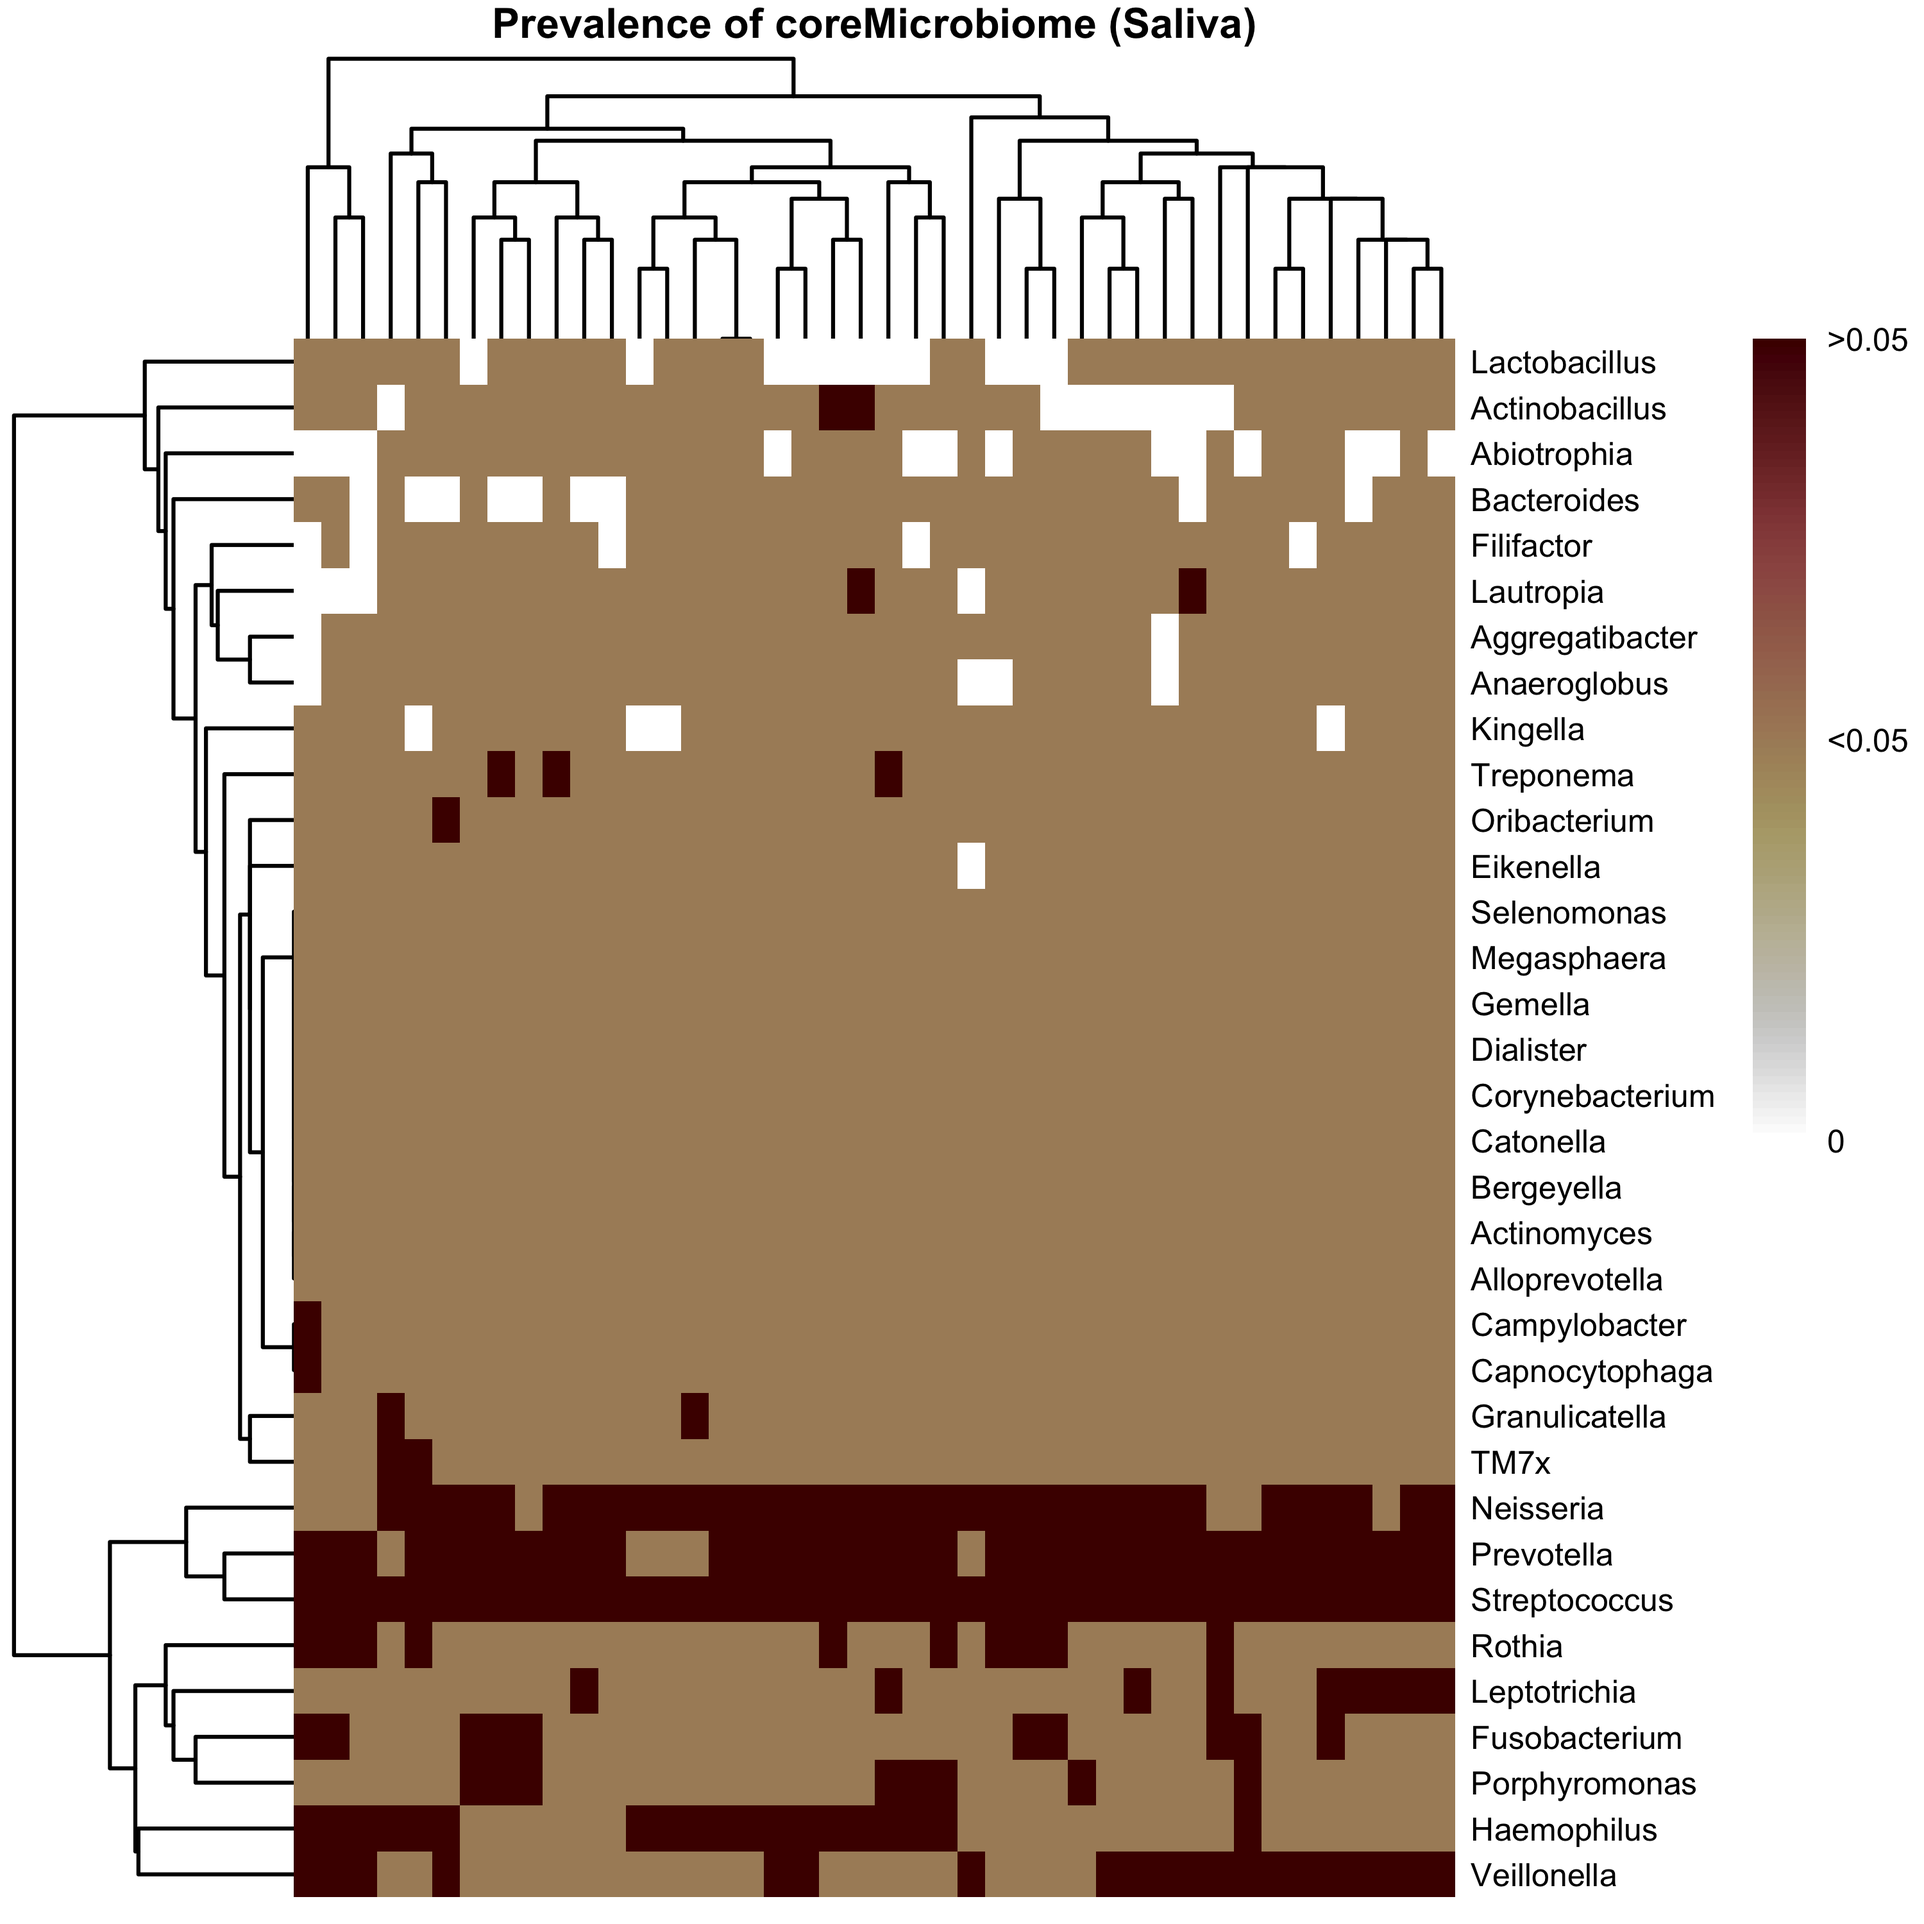
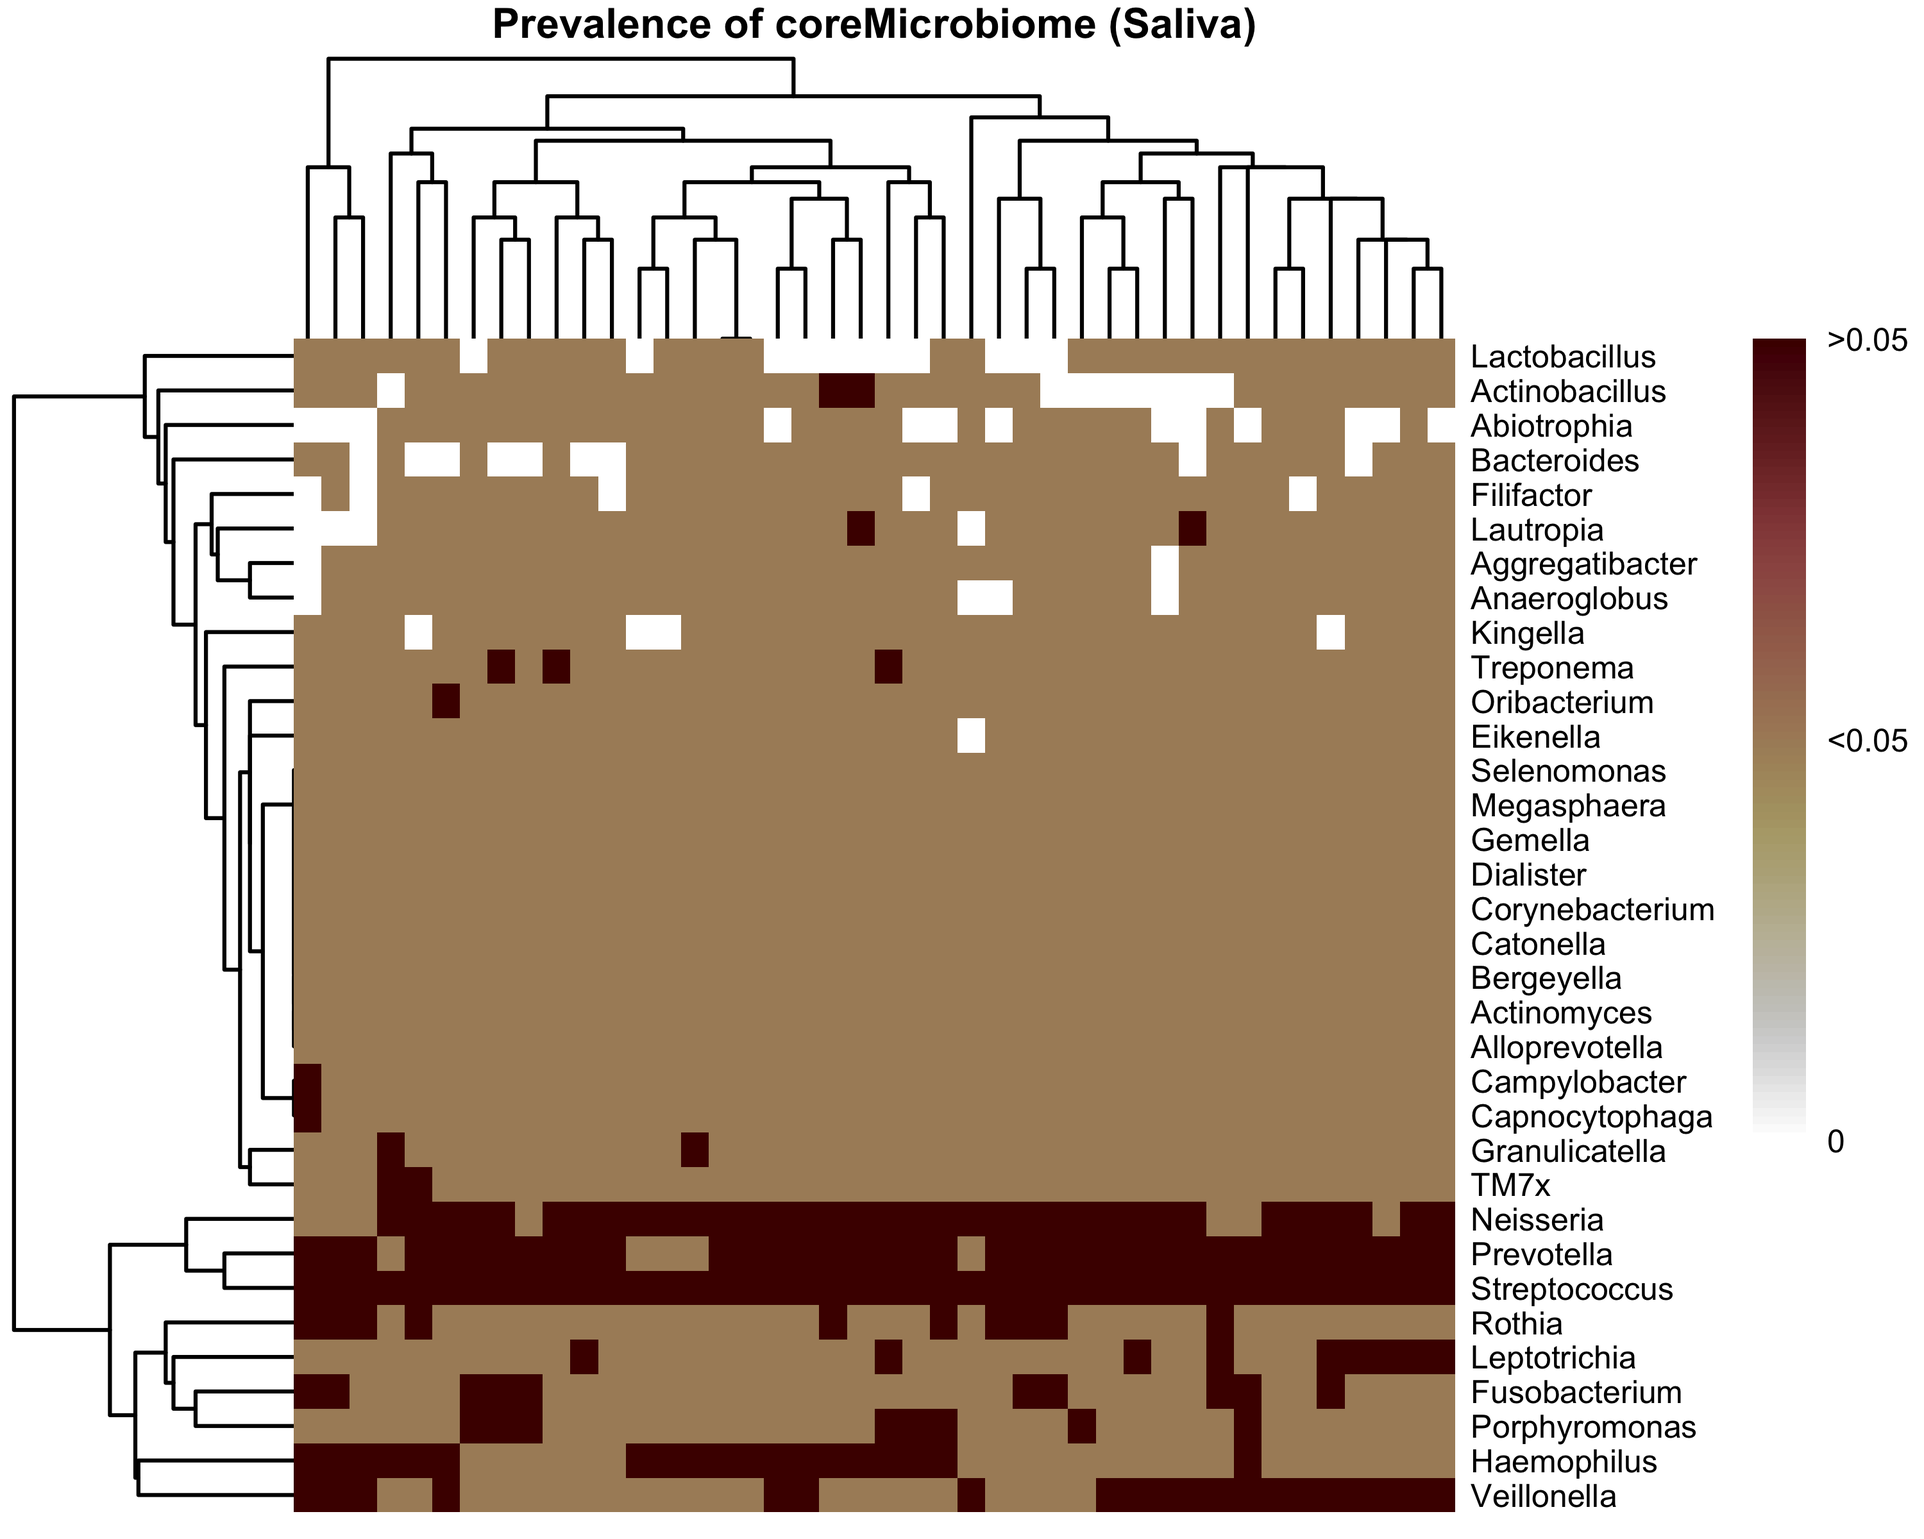
corrected OTU analysis

diff --git a/Analysis Ducoments/OTUanalysis.md b/Analysis Ducoments/OTUanalysis.md
@@ -10,7 +10,7 @@
         -   [1.3.3 Effective sequences](#effective-sequences)
         -   [1.3.4 Taxon annotation](#taxon-annotation)
 -   [2 Pan/Core物种分析](#pancore物种分析)
--   [3 Core with compositionals:](#core-with-compositionals)
+-   [3 Core Microbiome:](#core-microbiome)
     -   [3.1 Microbiome compostion](#microbiome-compostion)
         -   [3.1.1 Code](#code-2)
         -   [3.1.2 Figures](#figures-1)
@@ -219,8 +219,8 @@ ref:Zaura, E., Keijser, B.J., Huse, S.M. et al. Defining the healthy
 (2009).
 <a href="https://doi.org/10.1186/1471-2180-9-259" class="uri">https://doi.org/10.1186/1471-2180-9-259</a>
 
-3 Core with compositionals:
-===========================
+3 Core Microbiome:
+==================
 
     meta<-fread("../Data/Data/meta.csv",data.table = F)
     OTUstool<-fread("../Data/Data/OTUtabale_regaStool.csv",data.table = F)
@@ -246,7 +246,7 @@ ref:Zaura, E., Keijser, B.J., Huse, S.M. et al. Defining the healthy
 
     scico_palette_show()
 
-<img src="OTUanalysis_files/figure-markdown_strict/unnamed-chunk-6-1.png" width="100%" style="display: block; margin: auto;" />
+<img src="OTUanalysis_files/figure-markdown_strict/unnamed-chunk-6-1.png" width="80%" style="display: block; margin: auto;" />
 
     mat1<-ABstool.core
     for (i in 1:nrow(mat1)) {
@@ -263,7 +263,7 @@ ref:Zaura, E., Keijser, B.J., Huse, S.M. et al. Defining the healthy
              show_colnames = F,
              color = scico(100,palette = "bilbao",direction = 1))
 
-<img src="OTUanalysis_files/figure-markdown_strict/unnamed-chunk-6-2.png" width="100%" style="display: block; margin: auto;" />
+<img src="OTUanalysis_files/figure-markdown_strict/unnamed-chunk-6-2.png" width="80%" style="display: block; margin: auto;" />
 
     ABsaliva.core<-ABsaliva[apply(ABsaliva, 1, function(x){
       length(which(x==0))<21&length(which(x>0.01))!=0
@@ -286,7 +286,7 @@ ref:Zaura, E., Keijser, B.J., Huse, S.M. et al. Defining the healthy
              show_colnames = F,
              color = scico(100,palette = "bilbao",direction = 1))
 
-<img src="OTUanalysis_files/figure-markdown_strict/unnamed-chunk-6-3.png" width="100%" style="display: block; margin: auto;" />
+<img src="OTUanalysis_files/figure-markdown_strict/unnamed-chunk-6-3.png" width="80%" style="display: block; margin: auto;" />
 
     ABstool.core<-data.frame(Samples=colnames(ABstool.core),t(ABstool.core))%>%
       mutate(.,Others=apply(.[,-1],1, function(x) 1-sum(x)))
@@ -330,7 +330,7 @@ ref:Zaura, E., Keijser, B.J., Huse, S.M. et al. Defining the healthy
       xlab("Cycles of treatment")
     p1
 
-<img src="OTUanalysis_files/figure-markdown_strict/unnamed-chunk-6-4.png" width="100%" style="display: block; margin: auto;" />
+<img src="OTUanalysis_files/figure-markdown_strict/unnamed-chunk-6-4.png" width="80%" style="display: block; margin: auto;" />
 
     p2<-ggplot(coreMp13,aes(Time,Abundance,fill=CoreMicrobiome))+
       geom_area()+
@@ -359,7 +359,7 @@ ref:Zaura, E., Keijser, B.J., Huse, S.M. et al. Defining the healthy
       xlab("Cycles of treatment")
     p2
 
-<img src="OTUanalysis_files/figure-markdown_strict/unnamed-chunk-6-5.png" width="100%" style="display: block; margin: auto;" />
+<img src="OTUanalysis_files/figure-markdown_strict/unnamed-chunk-6-5.png" width="80%" style="display: block; margin: auto;" />
 
 3.1 Microbiome compostion
 -------------------------
